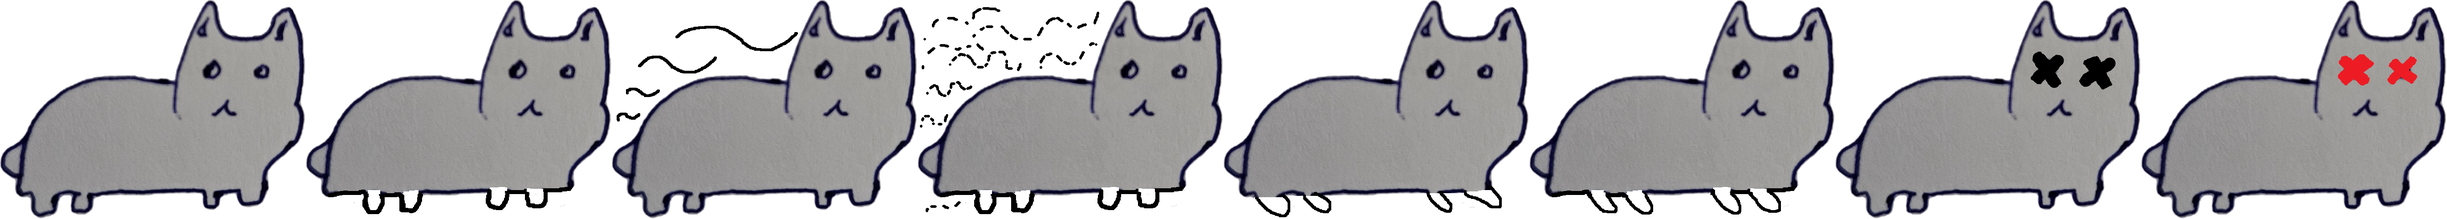
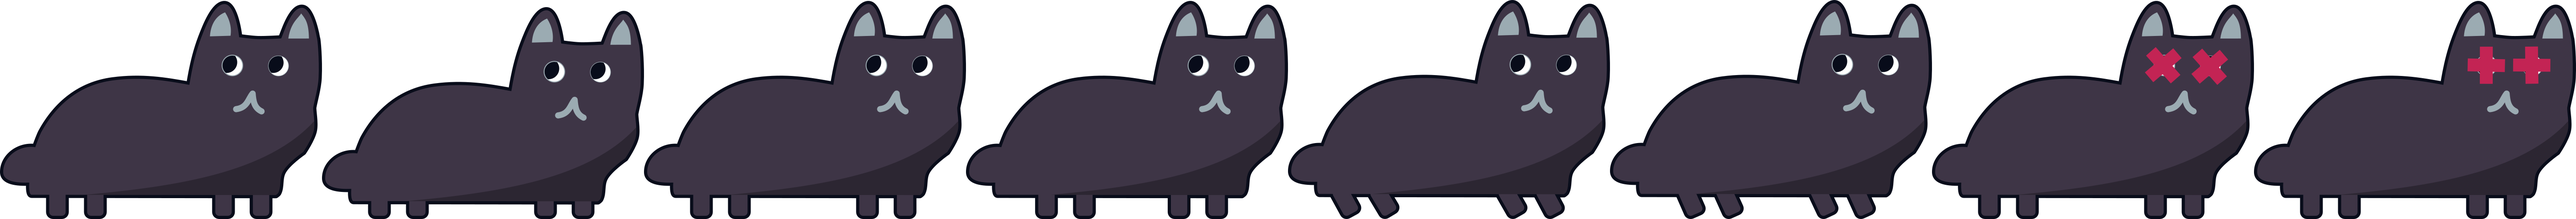
Update player from hand drawn graphics to vector

diff --git a/src/game/scenes/Preloader.js b/src/game/scenes/Preloader.js
@@ -25,8 +25,8 @@ export class Preloader extends Scene {
     this.load.image("heart", "heart.png");
     this.load.image("heartbreak", "heartbreak.png");
     this.load.spritesheet("player", "player.png", {
-      frameWidth: 687,
-      frameHeight: 492,
+      frameWidth: 723,
+      frameHeight: 493,
       spacing: 0,
     });
   }

diff --git a/src/game/entities/playerAnims.js b/src/game/entities/playerAnims.js
@@ -12,7 +12,7 @@ export default (anims) => {
     anims.create({
       key: "run",
       frames: anims.generateFrameNumbers("player", { start: 2, end: 3 }),
-      frameRate: 2,
+      frameRate: 12,
       repeat: -1,
     });
   }
